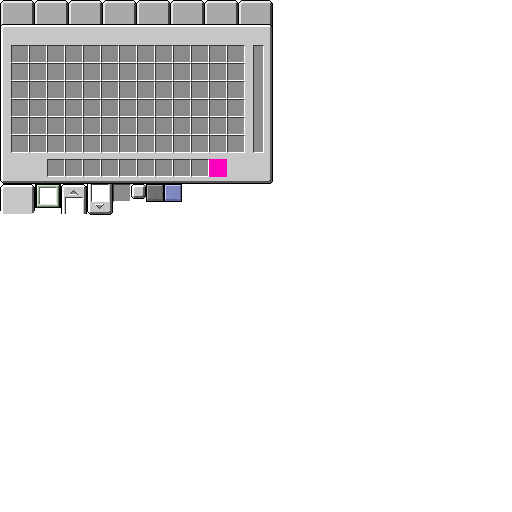
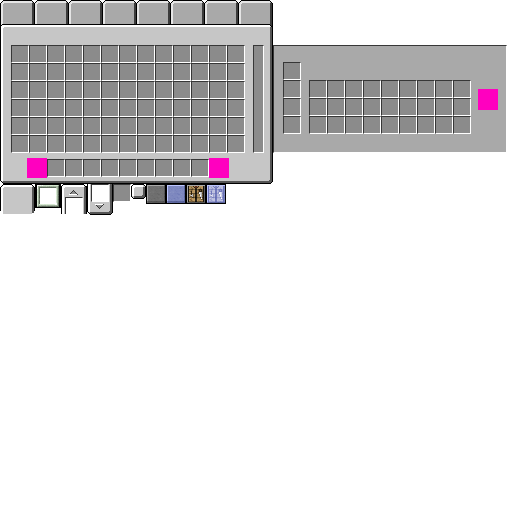
Added Craft button to Crafting Gui

diff --git a/src/main/java/useless/legacyui/Gui/GuiScreens/GuiLegacyCreative.java b/src/main/java/useless/legacyui/Gui/GuiScreens/GuiLegacyCreative.java
@@ -11,6 +11,7 @@ import useless.legacyui.Gui.GuiElements.Buttons.GuiAuditoryButton;
 import useless.legacyui.Gui.GuiElements.GuiRegion;
 import useless.legacyui.Helper.KeyboardHelper;
 import useless.legacyui.LegacySoundManager;
+import useless.legacyui.LegacyUI;
 import useless.legacyui.ModSettings;
 import useless.legacyui.Sorting.LegacyCategoryManager;
 
@@ -28,6 +29,7 @@ public class GuiLegacyCreative extends GuiInventory {
     public static LegacyContainerPlayerCreative container;
     protected GuiRegion scrollBar;
     protected GuiAuditoryButton clearButton;
+    protected GuiAuditoryButton craftButton;
     protected GuiAuditoryButton[] tabButtons = new GuiAuditoryButton[8];
     public GuiLegacyCreative(EntityPlayer player) {
         super(player);
@@ -59,10 +61,23 @@ public class GuiLegacyCreative extends GuiInventory {
             currentTab += tabAmount;
         }
         currentTab = Math.min(currentTab, tabAmount-1);
-        currentRow = 0;
+        selectRow(0);
         setContainerSlots();
     }
+    public void selectRow(int value){
+        boolean doContainer = false;
+        if (value != currentRow){
+            doContainer = true;
+        }
+        currentRow = value;
+        currentRow = Math.min(currentRow, (LegacyContainerPlayerCreative.getTotalRows()-6));
+        currentRow = Math.max(currentRow,0);
+        if (doContainer){
+            setContainerSlots();
+        }
+    }
     public void handleInputs(){
+        selectRow(currentRow + (Mouse.getDWheel()/-120));
         boolean shifted = Keyboard.isKeyDown(Keyboard.KEY_LSHIFT);
         if (KeyboardHelper.isKeyPressedThisFrame(mc.gameSettings.keyRight.keyCode()) || KeyboardHelper.isKeyPressedThisFrame(mc.gameSettings.keyLookRight.keyCode())){
             if (shifted){
@@ -85,6 +100,9 @@ public class GuiLegacyCreative extends GuiInventory {
                 clearHotbar();
             }
         }
+        if (guibutton == craftButton){
+            openCrafting();
+        }
         for (int i = 0; i < tabButtons.length; i++) {
             if (tabButtons[i] == guibutton){
                 selectTab(i);
@@ -101,6 +119,12 @@ public class GuiLegacyCreative extends GuiInventory {
         for (int i = container.getCreativeSlotsStart()-10; i < container.getCreativeSlotsStart(); ++i) {
             mc.playerController.doInventoryAction(container.windowId, InventoryAction.CREATIVE_DELETE, new int[]{i}, player);
         }
+    }
+    protected void openCrafting(){
+        LegacySoundManager.volume = 0;
+        this.onGuiClosed();
+        mc.displayGuiScreen(new GuiLegacyCrafting(player, 4));
+        LegacySoundManager.volume = 1f;
     }
     public void setContainerSlots(){
         for (int i = 0; i < tabButtons.length; i++) { // Only enable buttons if there is a corresponding recipe group
@@ -125,12 +149,15 @@ public class GuiLegacyCreative extends GuiInventory {
         }
 
         scrollBar = new GuiRegion(100, GUIx + 251, GUIy + 43, 15, 112);
-        clearButton = new GuiAuditoryButton(controlList.size() + 2, GUIx + 209, GUIy + 159, 18, 18, "X");
+        clearButton = new GuiAuditoryButton(controlList.size() + 2, GUIx + 209, GUIy + 158, 20, 20, "X");
         clearButton.visible = false;
         controlList.add(clearButton);
+        craftButton = new GuiAuditoryButton(controlList.size() + 2, GUIx + 27, GUIy + 158, 20, 20, "");
+        craftButton.visible = false;
+        controlList.add(craftButton);
 
-        currentTab = 0;
-        currentRow = 0;
+        selectTab(0);
+        selectRow(0);
         setContainerSlots();
     }
     public void drawScreen(int x, int y, float renderPartialTicks) {
@@ -138,19 +165,19 @@ public class GuiLegacyCreative extends GuiInventory {
         if (scrollBar.isHovered(x,y)){
             if (Mouse.isButtonDown(0)){
                 scrollProgress = (y-scrollBar.getY())/ (float)scrollBar.getHeight();
-                currentRow = Math.round((LegacyContainerPlayerCreative.getTotalRows() - LegacyContainerPlayerCreative.slotsTall) * scrollProgress);
+                selectRow(Math.round((LegacyContainerPlayerCreative.getTotalRows() - LegacyContainerPlayerCreative.slotsTall) * scrollProgress));
                 if (LegacyContainerPlayerCreative.getTotalRows() <= LegacyContainerPlayerCreative.slotsTall){
                     scrollProgress = 0f;
                 }
-                currentRow = Math.max(currentRow,0);
 
                 setContainerSlots();
             }
         }
         super.drawScreen(x,y, renderPartialTicks);
         UtilGui.bindTexture("/assets/legacyui/gui/legacycreative.png");
-        UtilGui.drawTexturedModalRect(this, clearButton.xPosition, clearButton.yPosition, clearButton.isHovered(x, y) ? 146+18:146, 184, clearButton.width, clearButton.height, 1f/guiTextureWidth); // draw clearbutton
-        drawStringCentered(fontRenderer, clearButton.displayString, clearButton.xPosition + (clearButton.width/2), clearButton.yPosition + 5, 0xFFFFFF);
+        UtilGui.drawTexturedModalRect(this, craftButton.xPosition, craftButton.yPosition, craftButton.isHovered(x, y) ? 186+craftButton.width:186, 184, craftButton.width, craftButton.height, 1f/guiTextureWidth); // draw craftButton
+        UtilGui.drawTexturedModalRect(this, clearButton.xPosition, clearButton.yPosition, clearButton.isHovered(x, y) ? 146+clearButton.width:146, 184, clearButton.width, clearButton.height, 1f/guiTextureWidth); // draw clearbutton
+        drawStringCentered(fontRenderer, clearButton.displayString, clearButton.xPosition + (clearButton.width/2), clearButton.yPosition + 6, 0xFFFFFF);
     }
     protected void drawGuiContainerForegroundLayer(){
     }

diff --git a/src/main/java/useless/legacyui/Gui/Containers/LegacyContainerPlayerCreative.java b/src/main/java/useless/legacyui/Gui/Containers/LegacyContainerPlayerCreative.java
@@ -1,7 +1,5 @@
 package useless.legacyui.Gui.Containers;
 
-import net.minecraft.core.InventoryAction;
-import net.minecraft.core.entity.player.EntityPlayer;
 import net.minecraft.core.item.ItemStack;
 import net.minecraft.core.player.inventory.ContainerPlayerCreative;
 import net.minecraft.core.player.inventory.InventoryPlayer;
@@ -10,7 +8,6 @@ import net.minecraft.core.player.inventory.slot.SlotArmor;
 import net.minecraft.core.player.inventory.slot.SlotCreative;
 import useless.legacyui.Gui.GuiScreens.GuiLegacyCreative;
 import useless.legacyui.Gui.Slots.SlotNull;
-import useless.legacyui.LegacyUI;
 import useless.legacyui.Sorting.Item.ItemCategory;
 import useless.legacyui.Sorting.LegacyCategoryManager;
 
@@ -61,17 +58,12 @@ public class LegacyContainerPlayerCreative extends ContainerPlayerCreative {
         for (int i = 0; i < slotsWide * slotsTall; ++i) {
             ItemStack item;
             int index = i +  + (GuiLegacyCreative.currentRow * slotsWide);
-            if (index < currentCategory.itemStacks.length){
+            if (index < currentCategory.itemStacks.length && index >= 0){
                 item = currentCategory.itemStacks[index];
             } else {
                 item = null;
             }
             ((SlotCreative) this.inventorySlots.get(creativeSlotsStart+i)).item = item;
         }
-    }
-    public ItemStack clickInventorySlot(InventoryAction action, int[] args, EntityPlayer player) {
-        LegacyUI.LOGGER.info(String.valueOf(action));
-        LegacyUI.LOGGER.info(Arrays.toString(args));
-        return super.clickInventorySlot(action, args, player);
     }
 }
